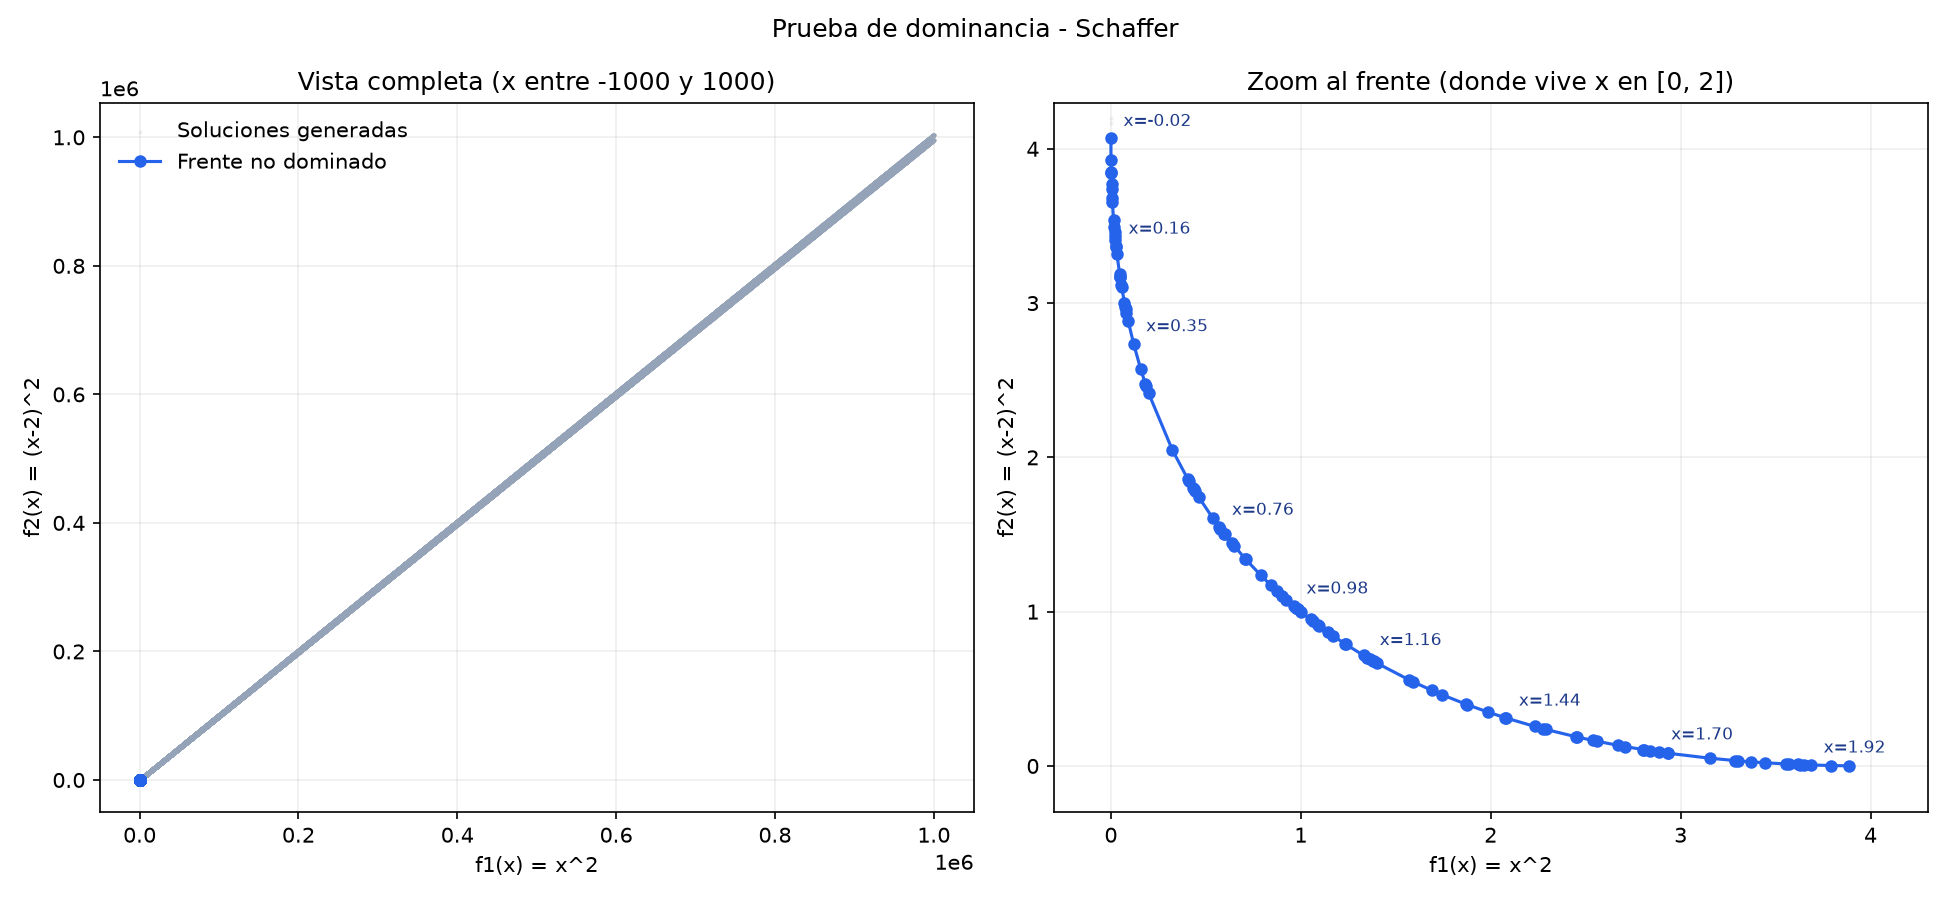
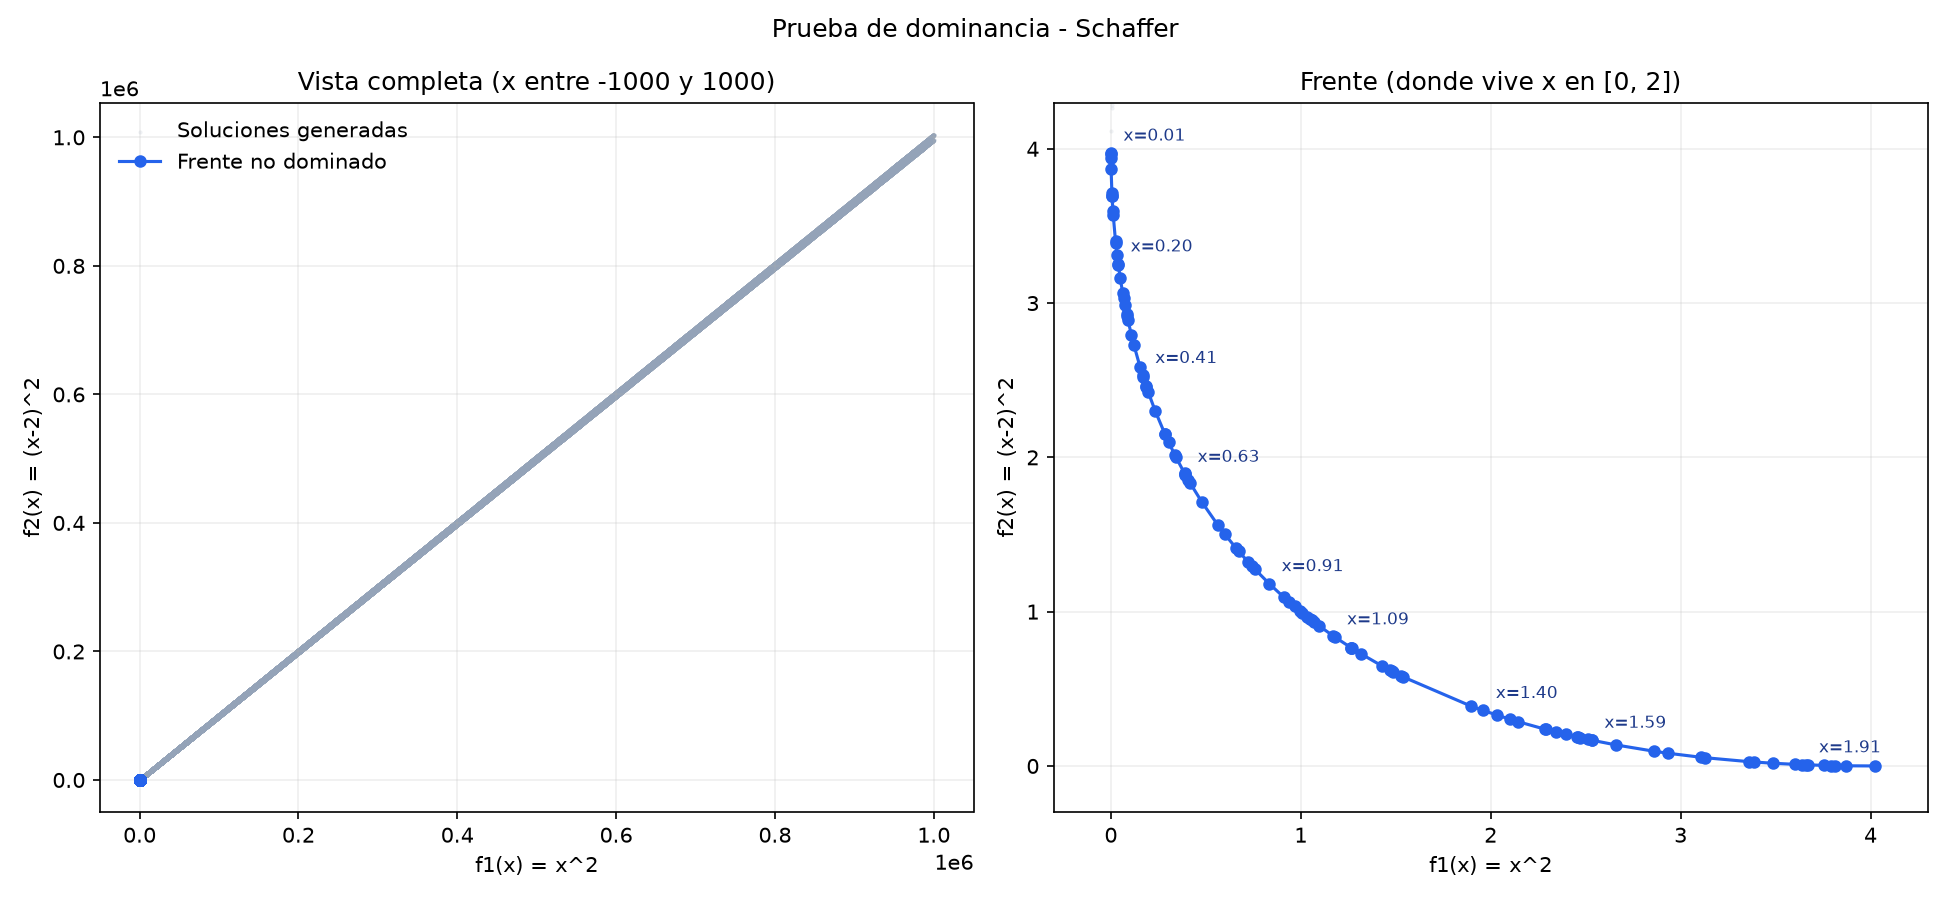
Shaffer

diff --git a/schaffer.py b/schaffer.py
@@ -80,7 +80,7 @@ if __name__ == "__main__":
     for sol in archivo[::max(1, len(archivo) // 8)]:
         ax2.annotate(f"x={sol[2]:.2f}", (sol[0], sol[1]),
                      textcoords="offset points", xytext=(6, 6), fontsize=8, color="#1e3a8a")
-    ax2.set_title("Zoom al frente (donde vive x en [0, 2])")
+    ax2.set_title("Frente (donde vive x en [0, 2])")
 
     fig.suptitle("Prueba de dominancia - Schaffer")
     fig.tight_layout()
